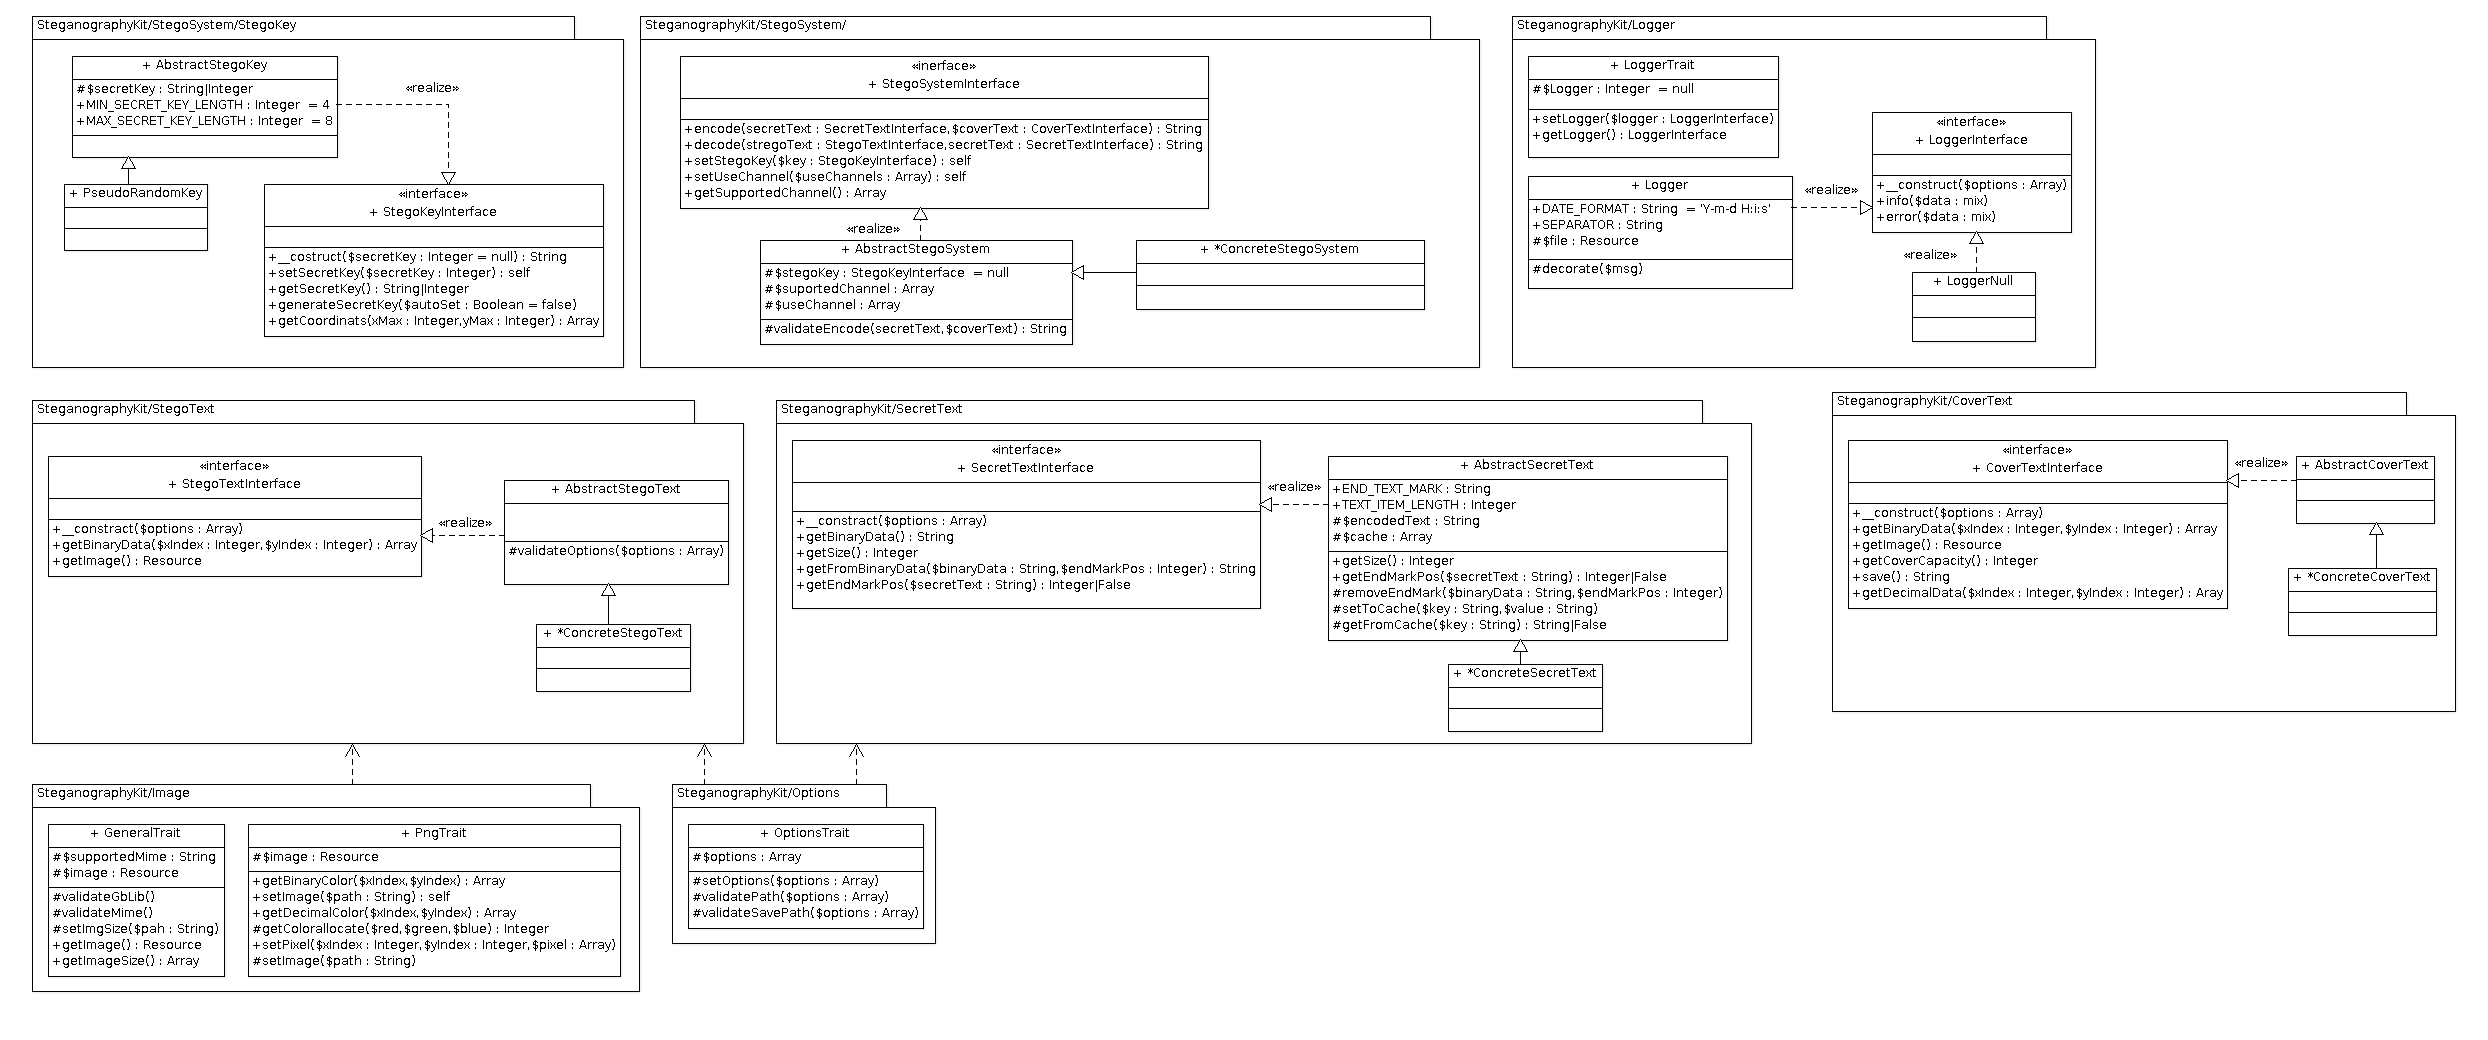
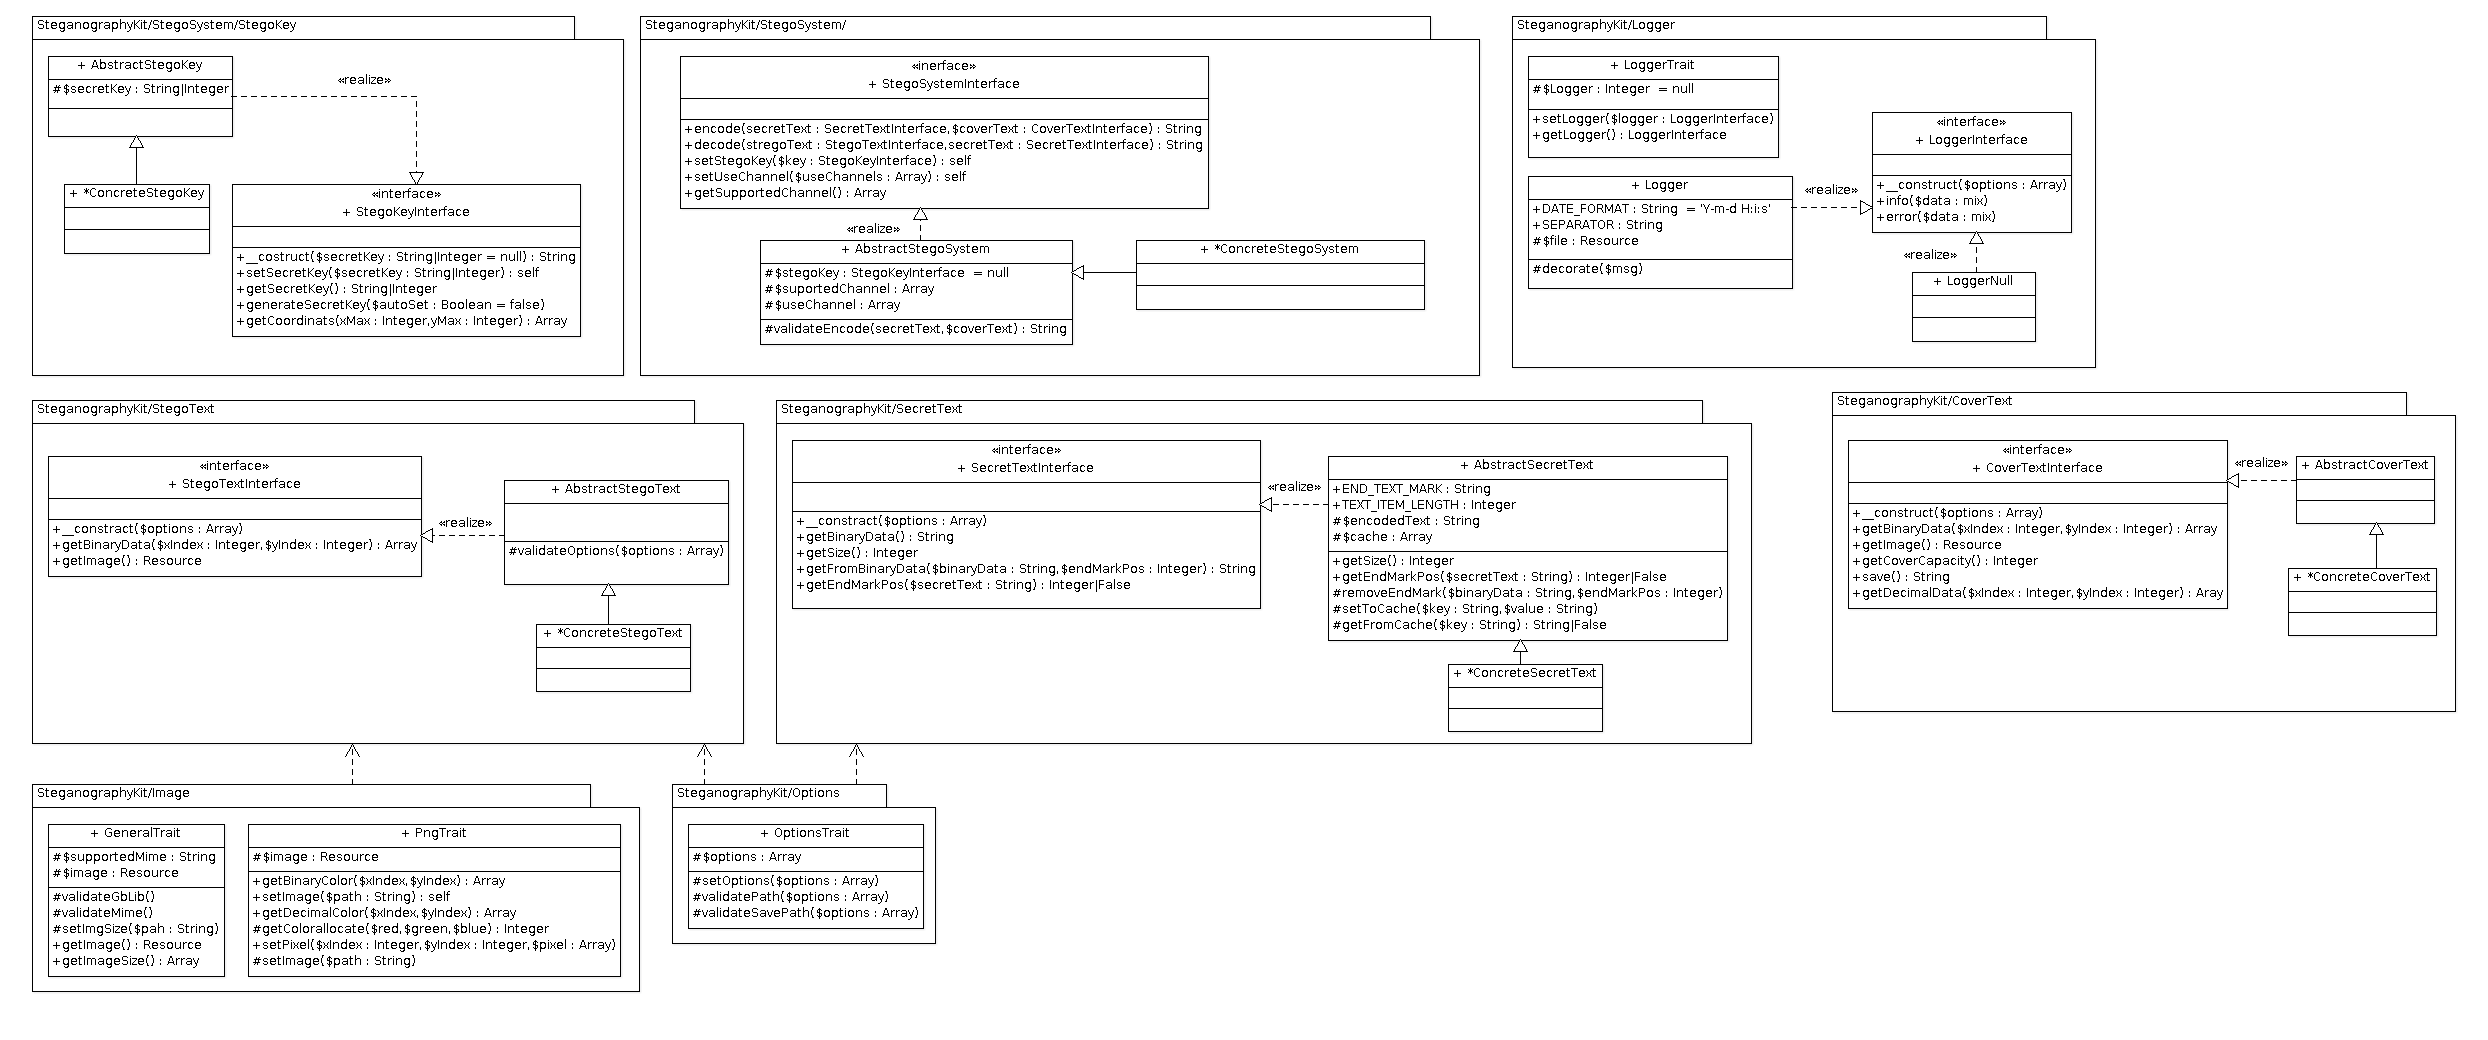
Implemented StegoKey and updated UML diagram

diff --git a/src/SteganographyKit/StegoKey/PseudoRandomKey.php b/src/SteganographyKit/StegoKey/PseudoRandomKey.php
@@ -1,0 +1,133 @@
+<?php
+/**
+ * Stego Pseudo-Random Key
+ * Gets coordinats as a  element of pseudo-random sequences where seed is a secretKey
+ * It's used function mt_srand (Mersenne Twister implementation in PHP)
+ * 
+ * @link        https://github.com/picamator/SteganographyKit
+ * @license     http://opensource.org/licenses/BSD-3-Clause New BSD License
+ */
+
+namespace SteganographyKit\StegoKey;
+
+class PseudoRandomKey extends AbstractStegoKey
+{ 
+    /**
+     * Min length of secretKey
+     */
+    const MIN_SECRET_KEY_LENGTH = 4;
+    
+    /**
+     * Max length of secretKey
+     */
+    const MAX_SECRET_KEY_LENGTH = 8;
+    
+    /**
+     * Max number of repeat coordinate for for trying get new one
+     */
+    const MAX_COORDINAT_REPEAT = 20;
+    
+    /**
+     * Container of coordinats that have been generated before
+     * 
+     * @var array 
+     */
+    protected $coordinats = array();
+    
+    /**
+     * Sets secretKey
+     * 
+     * @param string|integer $secretKey
+     * @return self
+     * @throw Exception
+     */
+    public function setSecretKey($secretKey)
+    {
+        if ($this->validateSecretKey($secretKey) === false) {
+            throw new Exception('Invalid secretKey: "' . $secretKey . '"');
+        }
+        
+        $this->secretKey    = $secretKey;
+        // reset coordinats container
+        $this->coordinats   = array();
+        
+        return $this;
+    }
+    
+    /**
+     * Generate secretKey
+     * 
+     * @param boolean $autoSet - true auto set property secretKey, false only return value
+     * @return string|integer
+     */
+    public function generateSecretKey($autoSet = false)
+    {
+        $min = pow(10, self::MAX_SECRET_KEY_LENGTH - 1);
+        $max = (int) str_replace(array(1, 0), 9, $min);
+        
+        $secretKey = mt_rand($min, $max);        
+        if ($autoSet === true) {
+            $this->setSecretKey($secretKey);
+        }
+        
+        return $secretKey;
+    }
+    
+    /**
+     * Geta coordinats
+     * 
+     * @param integer $xMax
+     * @param integer $yMax
+     * @return array - array('x' => 10, 'y' => 5)
+     * @throw Exception
+     */
+    public function getCoordinats($xMax, $yMax)
+    {      
+        // set seed
+        $secretKey = $this->getSecretKey();
+        mt_srand($secretKey);
+        
+        $result = false;
+        $i      = 0;
+        while ($i < self::MAX_COORDINAT_REPEAT && $result === false) {
+            $x = mt_rand(0, $xMax);
+            $y = mt_rand(0, $yMax);
+            
+            // check if it's new one
+            if(!key_exists($x, $this->coordinats) 
+                || !in_array($y, $this->coordinats[$x])
+            ) {
+                $result = array('x' => $x,'y' => $y);
+                $this->coordinats[$x][] = $y;
+            }
+            
+            $i++;
+        }
+         
+        if ($result === false) {
+            throw new Exception('Coordinat generation was failed. Attempted ' 
+                . self::MAX_COORDINAT_REPEAT . ' times to get new one was used.');
+        }
+        
+        return $result;
+    }
+    
+    /**
+     * Validate SecretKey
+     * 
+     * @param string|integer $secretKey
+     * @return boolean - true for ok or false otherwise
+     */
+    protected function validateSecretKey($secretKey) 
+    {
+        if (!is_int($secretKey)) {
+            return false;
+        }
+        
+        $length = strlen($secretKey);
+        $result =  $length >= self::MIN_SECRET_KEY_LENGTH && $length <= self::MAX_SECRET_KEY_LENGTH;
+     
+        return $result;
+    }
+}
+

diff --git a/src/SteganographyKit/StegoKey/StegoKeyInterface.php b/src/SteganographyKit/StegoKey/StegoKeyInterface.php
@@ -1,0 +1,52 @@
+<?php
+/**
+ * Interface for Stego Key
+ * 
+ * @link        https://github.com/picamator/SteganographyKit
+ * @license     http://opensource.org/licenses/BSD-3-Clause New BSD License
+ */
+
+namespace SteganographyKit\StegoKey;
+
+interface StegoKeyInterface 
+{
+    /**
+     * @param string|integer $secretText
+     */
+    public function __construct($secretText = null);
+    
+    /**
+     * Sets secretKey
+     * 
+     * @param string|integer $secretKey
+     * @return self
+     * @throw Exception
+     */
+    public function setSecretKey($secretKey);
+    
+    /**
+     * Gets secretKey
+     * 
+     * @return string|integer
+     * @throw Exception
+     */
+    public function getSecretKey();
+    
+    /**
+     * Generate secretKey
+     * 
+     * @param boolean $autoSet - true auto set property secretKey, false only return value
+     * @return string|integer
+     */
+    public function generateSecretKey($autoSet = false);
+    
+    /**
+     * Geta coordinats
+     * 
+     * @param integer $xMax
+     * @param integer $yMax
+     * @return array - array('x' => 10, 'y' => 5)
+     * @throw Exception
+     */
+    public function getCoordinats($xMax, $yMax);
+}

diff --git a/tests/src/SteganographyKit/StegoKey/PseudoRandomKeyTest.php b/tests/src/SteganographyKit/StegoKey/PseudoRandomKeyTest.php
@@ -68,13 +68,18 @@ class PseudoRandomKeyTest extends BaseTest
      */
     public function testGetCoordinats($xMax, $yMax, $count) 
     {
-        for ($i = 0; $i <= $count; $i ++) {
+        $this->stegoKey->generateSecretKey(true);
+        for ($i = 0; $i < $count; $i ++) {
             $coordinats = $this->stegoKey->getCoordinats($xMax, $yMax);
-            
+                        
             $this->assertTrue(is_array($coordinats));
             $this->assertCount(2, $coordinats);
+            
             $this->assertFalse(empty($coordinats['x']));
             $this->assertFalse(empty($coordinats['y']));
+            
+            $this->assertLessThanOrEqual($xMax, $coordinats['x']);
+            $this->assertLessThanOrEqual($yMax, $coordinats['y']);
         }
     }
     
@@ -98,7 +103,7 @@ class PseudoRandomKeyTest extends BaseTest
     public function providerGetCoordinats() 
     {
         return array(
-            array(200, 200, 100)
+            array(200, 200, 10)
         );
     }
 }

diff --git a/src/SteganographyKit/StegoKey/AbstractStegoKey.php b/src/SteganographyKit/StegoKey/AbstractStegoKey.php
@@ -1,0 +1,44 @@
+<?php
+/**
+ * Abstract for Stego Key
+ * 
+ * @link        https://github.com/picamator/SteganographyKit
+ * @license     http://opensource.org/licenses/BSD-3-Clause New BSD License
+ */
+
+namespace SteganographyKit\StegoKey;
+
+abstract class AbstractStegoKey implements StegoKeyInterface 
+{
+    /**
+     * SecretKey
+     * 
+     * @var string|integer 
+     */
+    protected $secretKey;
+    
+    /**
+     * @param string|integer $secretText
+     */
+    public function __construct($secretText = null) 
+    {
+        if (!is_null($secretText)) {
+            $this->setSecretKey($secretText);
+        }
+    }
+    
+    /**
+     * Gets secretKey
+     * 
+     * @return string|integer
+     * @throw Exception
+     */
+    public function getSecretKey() 
+    {
+        if (is_null($this->secretKey)) {
+            throw new Exception('Coordinats can not be generated. SecretKey was not set.');
+        }
+        
+        return $this->secretKey;
+    }
+}

diff --git a/src/SteganographyKit/StegoKey/Exception.php b/src/SteganographyKit/StegoKey/Exception.php
@@ -1,0 +1,14 @@
+<?php
+/**
+ * StegoKey Exception
+ * 
+ * @link        https://github.com/picamator/SteganographyKit
+ * @license     http://opensource.org/licenses/BSD-3-Clause New BSD License
+ */
+
+namespace SteganographyKit\StegoKey;
+
+class Exception extends \SteganographyKit\Exception 
+{
+    
+}
